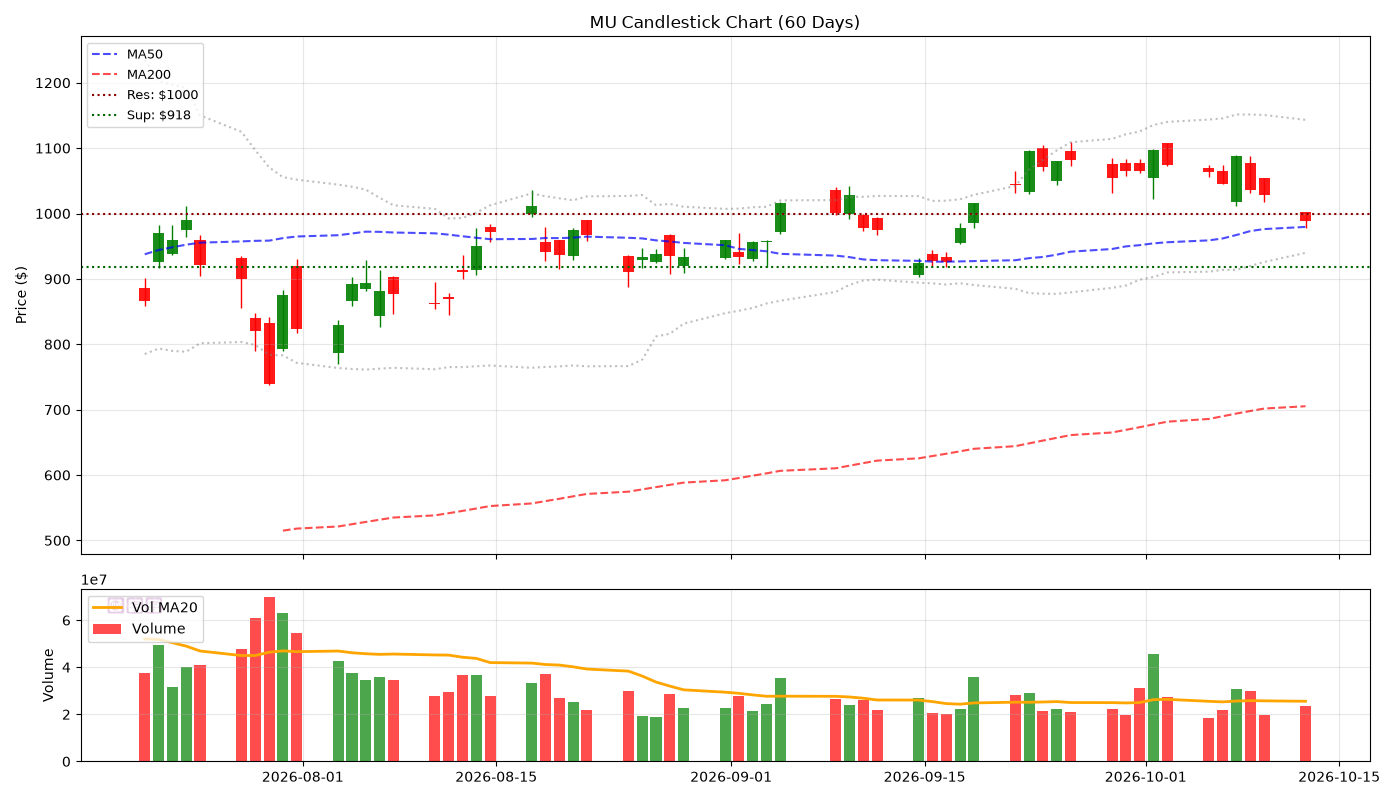
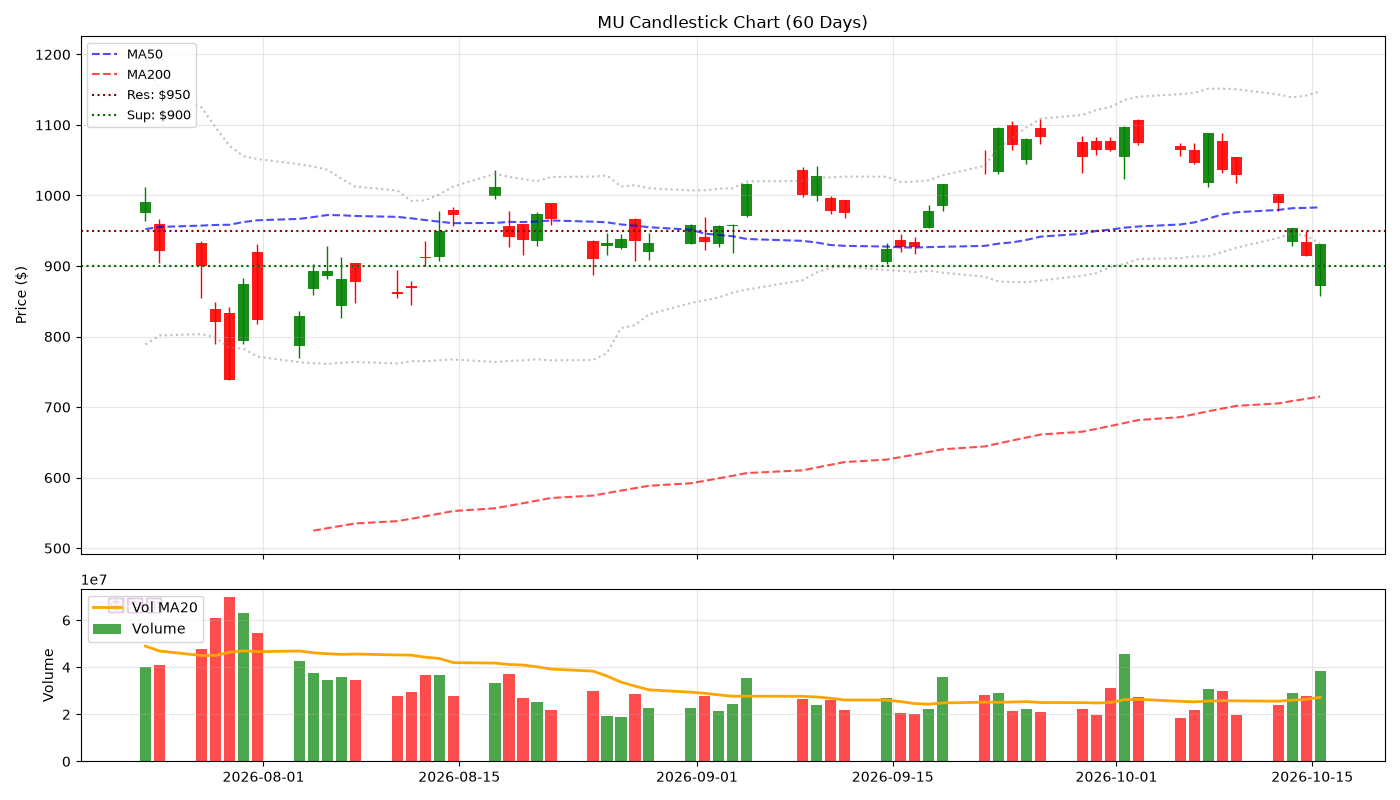
feat(v5): 2026-10-16 Candlestick

diff --git a/reports/2026-10-16.md b/reports/2026-10-16.md
@@ -1,0 +1,85 @@
+# 🕯 Hermes V5 陰陽燭專業日報 - 2026-10-16
+> **生成時間**: 2026-10-16 06:01:05 | **圖表**: 正宗陰陽燭 + Volume
+
+---
+
+## 📊 核心數據
+
+| 股票 | 價格 | 漲跌% | RSI | 成交量 | 阻力 | 支撐 |
+|------|------|-------|-----|--------|------|------|
+| SNDK | $1394.83 | -0.61% | 17.9 | 💧 | $1400 | $1276 |
+| MU | $931.24 | +1.87% | 28.8 | 💧 | $950 | $900 |
+| SOXL | $107.35 | -2.89% | 25.0 | 🔥 | $170 | $100 |
+| TSLA | $362.44 | -1.29% | 44.1 | 💧 | $389 | $350 |
+| APP | $279.29 | +6.52% | 34.4 | 💧 | $300 | $261 |
+| NOW | $148.57 | +6.14% | 68.1 | 🔥 | $149 | $127 |
+| CAT | $735.64 | -1.78% | 29.8 | 🔥 | $750 | $704 |
+| AMAT | $430.01 | -3.72% | 33.9 | 🔥 | $450 | $418 |
+| NOK | $9.57 | +1.81% | 41.0 | 💧 | $11 | $9 |
+| ALAB | $301.98 | +0.57% | 30.6 | 💧 | $402 | $300 |
+
+---
+
+## 📈 個股陰陽燭分析
+
+### SNDK ($1394.83, -0.61%)
+![Candlestick](../charts/SNDK.png)
+
+- **RSI**: 17.9 | **Vol**: NORMAL
+- **關鍵位**: 阻力 $1400.00 | 支撐 $1276.07
+
+### MU ($931.24, +1.87%)
+![Candlestick](../charts/MU.png)
+
+- **RSI**: 28.8 | **Vol**: NORMAL
+- **關鍵位**: 阻力 $950.00 | 支撐 $900.00
+
+### SOXL ($107.35, -2.89%)
+![Candlestick](../charts/SOXL.png)
+
+- **RSI**: 25.0 | **Vol**: HIGH
+- **關鍵位**: 阻力 $169.83 | 支撐 $100.00
+
+### TSLA ($362.44, -1.29%)
+![Candlestick](../charts/TSLA.png)
+
+- **RSI**: 44.1 | **Vol**: NORMAL
+- **關鍵位**: 阻力 $388.56 | 支撐 $350.00
+
+### APP ($279.29, +6.52%)
+![Candlestick](../charts/APP.png)
+
+- **RSI**: 34.4 | **Vol**: NORMAL
+- **關鍵位**: 阻力 $300.00 | 支撐 $260.99
+
+### NOW ($148.57, +6.14%)
+![Candlestick](../charts/NOW.png)
+
+- **RSI**: 68.1 | **Vol**: HIGH
+- **關鍵位**: 阻力 $149.34 | 支撐 $126.75
+
+### CAT ($735.64, -1.78%)
+![Candlestick](../charts/CAT.png)
+
+- **RSI**: 29.8 | **Vol**: HIGH
+- **關鍵位**: 阻力 $750.00 | 支撐 $704.01
+
+### AMAT ($430.01, -3.72%)
+![Candlestick](../charts/AMAT.png)
+
+- **RSI**: 33.9 | **Vol**: HIGH
+- **關鍵位**: 阻力 $450.00 | 支撐 $418.24
+
+### NOK ($9.57, +1.81%)
+![Candlestick](../charts/NOK.png)
+
+- **RSI**: 41.0 | **Vol**: NORMAL
+- **關鍵位**: 阻力 $11.05 | 支撐 $9.04
+
+### ALAB ($301.98, +0.57%)
+![Candlestick](../charts/ALAB.png)
+
+- **RSI**: 30.6 | **Vol**: NORMAL
+- **關鍵位**: 阻力 $401.74 | 支撐 $300.00
+
+*Generated by Hermes Agent V5 (Candlestick Pro)*

diff --git a/index.md b/index.md
@@ -1,12 +1,12 @@
 # 🌍 Hermes V5 陰陽燭情報中心
-> **更新**: 2026-10-13 06:00:31
+> **更新**: 2026-10-16 06:01:05
 
 | 股票 | 價格 | 漲跌% | RSI | Vol |
 |------|------|-------|-----|-----|
-| SNDK | $1487.33 | -5.97% | 19.8 | 💤 |
-| MU | $989.04 | -3.88% | 32.1 | 💤 |
-| SOXL | $128.40 | -8.13% | 34.9 | 💤 |
-| TSLA | $378.03 | -1.22% | 49.4 | 💤 |
-| APP | $270.87 | -2.23% | 18.0 | 💤 |
+| SNDK | $1394.83 | -0.61% | 17.9 | 💤 |
+| MU | $931.24 | +1.87% | 28.8 | 💤 |
+| SOXL | $107.35 | -2.89% | 25.0 | 🔥 |
+| TSLA | $362.44 | -1.29% | 44.1 | 💤 |
+| APP | $279.29 | +6.52% | 34.4 | 💤 |
 
-📖 [查看完整陰陽燭報告](reports/2026-10-13.md)
+📖 [查看完整陰陽燭報告](reports/2026-10-16.md)
